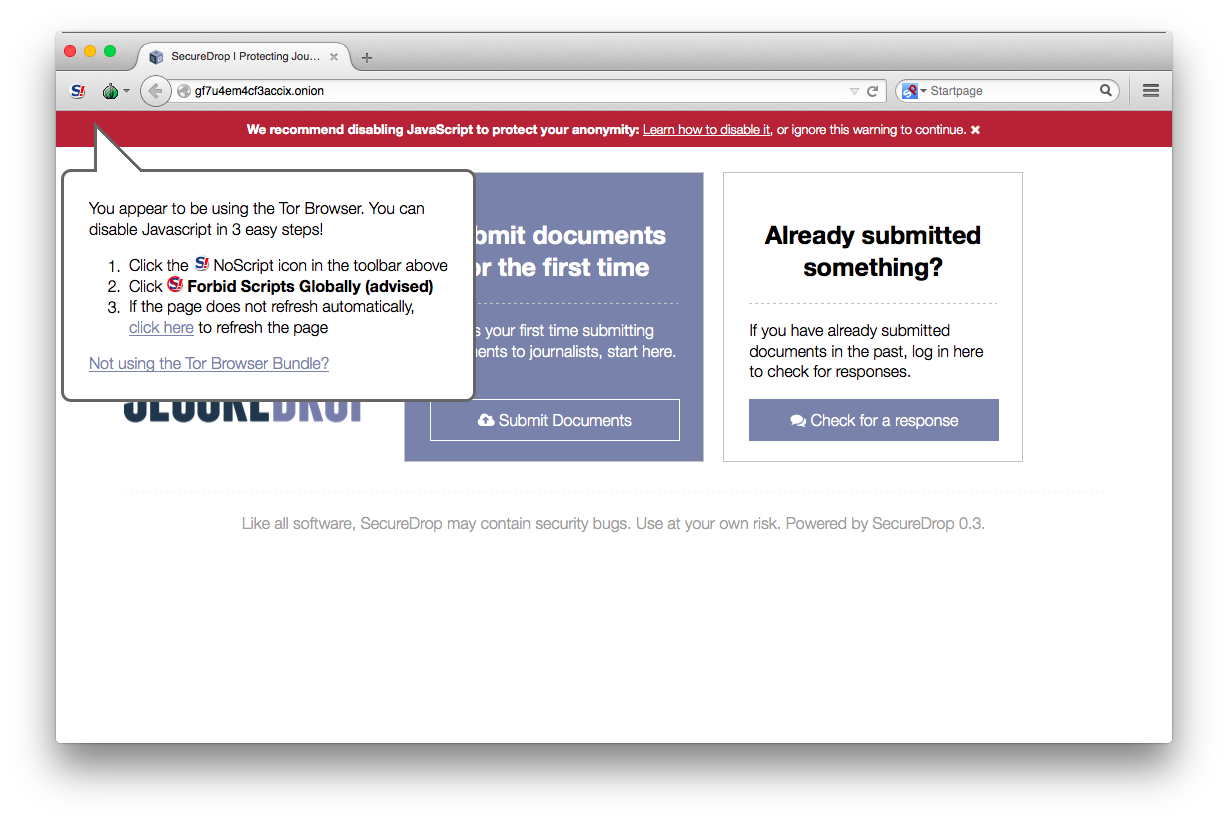
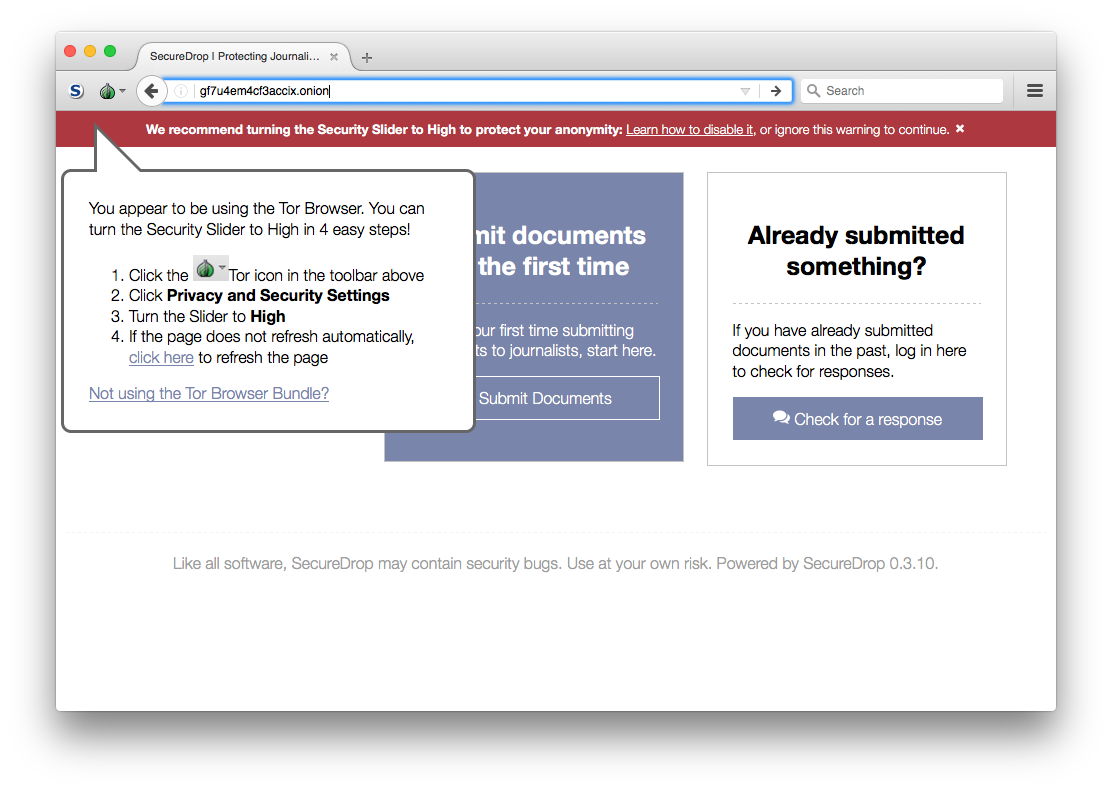
Make source TB restart instructions easier to read, update source interface screenshots

Changed region(s): [[0.0306, 0.0303, 0.9784, 0.9102], [0.1529, 0.6979, 0.8561, 0.7282]]

diff --git a/securedrop/source_templates/index.html b/securedrop/source_templates/index.html
@@ -10,7 +10,7 @@
     <script type="text/javascript" src="/static/js/source.js"></script>
   </head>
   <body>
-    <div class="warning"><strong>We recommend disabling JavaScript and turning the Security Slider to High to protect your anonymity:</strong> <a id="disable-js" href="/howto-disable-js">Learn how to disable it</a>, or ignore this warning to continue. <img id="warning-close" src="{{ url_for('static', filename='i/font-awesome/white/times.svg') }}" width="12px" height="12px"></div>
+    <div class="warning"><strong>We recommend turning the Security Slider to High to protect your anonymity:</strong> <a id="disable-js" href="/howto-disable-js">Learn how to disable it</a>, or ignore this warning to continue. <img id="warning-close" src="{{ url_for('static', filename='i/font-awesome/white/times.svg') }}" width="12px" height="12px"></div>
 
     {% include 'banner_warning_flashed.html' %}
 
@@ -54,12 +54,12 @@
     Included here so the images can preload while the user is first
     reading the page. Hidden by default. -->
     <div class="bubble">
-      <p>You appear to be using the Tor Browser. You can disable Javascript and turn the Security Slider to High in 4 easy steps!</p> 
+      <p>You appear to be using the Tor Browser. You can turn the Security Slider to High in 4 easy steps!</p>
       <ol>
         <li>Click the <img src="static/i/toronion.png" alt="Tor icon" />Tor icon in the toolbar above</li>
         <li>Click <strong>Privacy and Security Settings</strong></li>
         <li>Turn the Slider to <strong>High</strong></li>
-        <li>If the page does not refresh automatically, <a href="/">click here</a> to refresh the page</li> 
+        <li>If the page does not refresh automatically, <a href="/">click here</a> to refresh the page</li>
       </ol>
 
       <p><a href="/howto-disable-js">Not using the Tor Browser Bundle?</a></p>

diff --git a/securedrop/source.py b/securedrop/source.py
@@ -340,8 +340,17 @@ def login():
 def logout():
     if logged_in():
         session.clear()
-        flash("Thank you for logging out.", "notification")
-
+        tor_msg = Markup("""<strong>Important:</strong><br>
+                         Thank you for logging out!<br>
+                         Please fully end your session by restarting
+                         Tor Browser:<br>
+                         1. Click the
+                           <img src='static/i/toronion.png' alt='Tor icon' />
+                           Tor onion icon in the toolbar above.<br>
+                         2. Click <strong>  New Identity</strong>.<br>
+                         3. Click <strong>Yes</strong> in the dialog box
+                           that appears.""")
+        flash(tor_msg, "error")
     return redirect(url_for('index'))
 
 

diff --git a/securedrop/tests/functional/source_navigation_steps.py b/securedrop/tests/functional/source_navigation_steps.py
@@ -57,5 +57,5 @@ class SourceNavigationSteps():
 
     def _source_logs_out(self):
         logout_button = self.driver.find_element_by_id('logout').click()
-        notification = self.driver.find_element_by_css_selector('p.notification')
-        self.assertIn('Thank you for logging out.', notification.text)
+        notification = self.driver.find_element_by_css_selector('p.error')
+        self.assertIn('Thank you for logging out!', notification.text)

diff --git a/securedrop/tests/test_unit_source.py b/securedrop/tests/test_unit_source.py
@@ -130,7 +130,7 @@ class TestSource(TestCase):
             self.assertTrue(session['logged_in'])
             rv = c.get('/logout', follow_redirects=True)
             self.assertTrue(not session)
-            self.assertIn('Thank you for logging out.', rv.data)
+            self.assertIn('Thank you for logging out!', rv.data)
 
     def test_login_with_whitespace(self):
         """Test that codenames with leading or trailing whitespace still work"""
